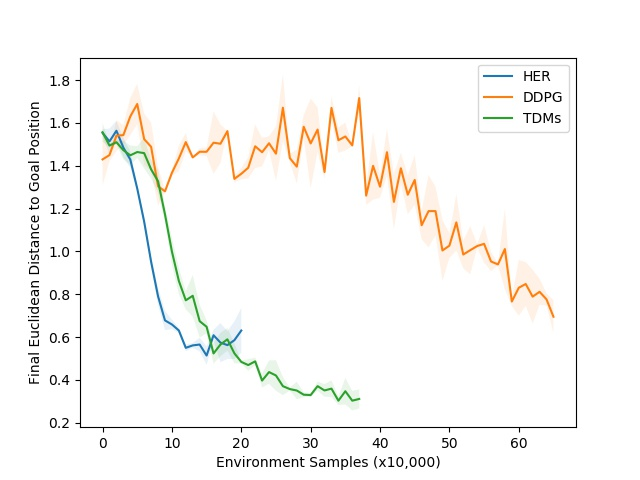
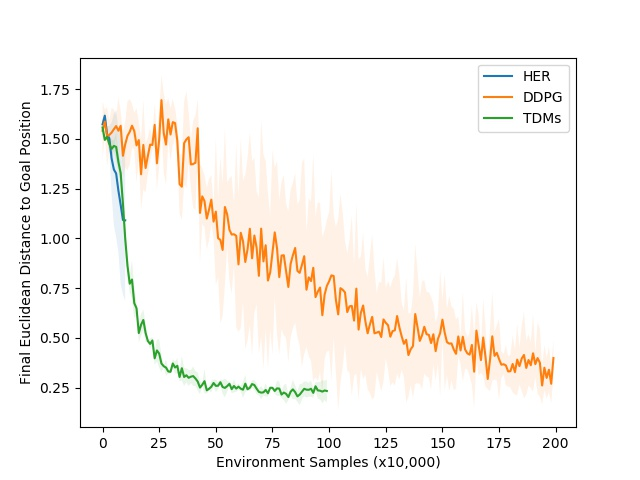
update plots

diff --git a/experiments/state_distance/iclr2018/ant_results.py b/experiments/state_distance/iclr2018/ant_results.py
@@ -9,18 +9,9 @@ def main():
     # ant_12_21_tdm_her_exp = Experiment(
     #     "/home/vitchyr/git/railrl/data/doodads3/12-21-tdm-her-sac-ant-sweep/"
     # )
-    ant_12_20_exp = Experiment(
-        "/home/vitchyr/git/railrl/data/doodads3/12-20-tdm-ant/"
-    )
-    ant_12_19_exp = Experiment(
-        "/home/vitchyr/git/railrl/data/doodads3/12-19-tdm-ant/"
-    )
-    ant_her_final_exp = Experiment(
-        "/home/vitchyr/git/railrl/data/doodads3/12-23-her-andrychowicz-ant-rebutal/"
-    )
-    ant_tdm_exp = Experiment(
-        "/home/vitchyr/git/railrl/data/doodads3/12-24-ddpg-nupo-sweep-ant/"
-    )
+    # ant_12_20_exp = Experiment(
+    #     "/home/vitchyr/git/railrl/data/doodads3/12-20-tdm-ant/"
+    # )
     # sac_her_andrychowicz_trials = ant_12_21_her_exp.get_trials({
     #     'sac_tdm_kwargs.tdm_kwargs.finite_horizon': False,
     #     'sac_tdm_kwargs.tdm_kwargs.reward_type': 'sparse',
@@ -57,19 +48,27 @@ def main():
     #     'ddpg_tdm_kwargs.base_kwargs.discount': 0.95,
     # })
 
+    ant_ddpg_exp = Experiment(
+        "/home/vitchyr/git/railrl/data/doodads3/12-23-ddpg-nupo-sweep-ant/"
+    )
+    ant_her_final_exp = Experiment(
+        "/home/vitchyr/git/railrl/data/doodads3/12-23-her-andrychowicz-ant-rebutal/"
+    )
+    ant_tdm_exp = Experiment(
+        "/home/vitchyr/git/railrl/data/doodads3/12-24-ddpg-nupo-sweep-ant/"
+    )
 
-    ddpg_trials = ant_12_19_exp.get_trials({
-        'algorithm': 'DDPG',
-        'algo_params.reward_scale': 10,
+    ddpg_trials = ant_ddpg_exp.get_trials({
+        'exp_id': '19',
     })
     ddpg_her_andrychowicz_trials = ant_her_final_exp.get_trials({
-        'exp_id': '11',
+        'exp_id': '20',
     })
     ddpg_tdm_trials = ant_tdm_exp.get_trials({
         'exp_id': '12',
     })
 
-    MAX_ITERS = 100
+    MAX_ITERS = 200
 
     plt.figure()
     for trials, name, key in [

diff --git a/experiments/state_distance/iclr2018/pusher_results.py b/experiments/state_distance/iclr2018/pusher_results.py
@@ -2,15 +2,14 @@ from railrl.misc.data_processing import Experiment
 import matplotlib.pyplot as plt
 import numpy as np
 
+from railrl.misc.visualization_util import sliding_mean
+
 her_exp = Experiment(
     "/home/vitchyr/git/railrl/data/doodads3/12-22-her-andrychowicz-try-hard-2/"
 )
 her_andry_trials = her_exp.get_trials({
-    'env_class.$class': "railrl.envs.multitask.pusher2d.CylinderXYPusher2DEnv",
-    'ddpg_tdm_kwargs.ddpg_kwargs.tau': 0.05,
-    'ddpg_tdm_kwargs.ddpg_kwargs.policy_pre_activation_weight': 0.0,
-    'ddpg_tdm_kwargs.base_kwargs.reward_scale': 100,
-    'ddpg_tdm_kwargs.base_kwargs.num_updates_per_env_step': 10,
+    'env_class.$class': 'railrl.envs.multitask.pusher2d.CylinderXYPusher2DEnv',
+    'exp_id': '22',
 })
 
 ddpg_path = "/mnt/data-backup-12-02-2017/doodads3/10-25-ddpg-pusher-again-baseline-with-reward-bonus/"
@@ -57,6 +56,8 @@ for trials, name, key in [
         for values in all_values
     ])
     costs = costs[:, :min(costs.shape[1], MAX_ITERS)]
+    if name == 'HER':
+        costs = sliding_mean(costs, 20)
     mean = np.mean(costs, axis=0)
     std = np.std(costs, axis=0)
     epochs = np.arange(0, len(costs[0]))

diff --git a/railrl/misc/visualization_util.py b/railrl/misc/visualization_util.py
@@ -119,3 +119,24 @@ def save_image(fig=None, fname=None):
     img = scipy.misc.imread(fname)
     fname.close()
     return img
+
+
+def sliding_mean(data_array, window=5):
+    """
+    Smooth data with a sliding mean
+    :param data_array:
+    :param window:
+    :return:
+    """
+    data_array = np.array(data_array)
+    new_list = []
+    for i in range(len(data_array)):
+        indices = list(range(max(i - window + 1, 0),
+                             min(i + window + 1, len(data_array))))
+        avg = 0
+        for j in indices:
+            avg += data_array[j]
+        avg /= float(len(indices))
+        new_list.append(avg)
+
+    return np.array(new_list)

diff --git a/experiments/state_distance/iclr2018/reacher_results.py b/experiments/state_distance/iclr2018/reacher_results.py
@@ -11,6 +11,7 @@ her_andry_trials = her_exp.get_trials({
         "railrl.envs.multitask.reacher_7dof.Reacher7DofXyzGoalState",
     'ddpg_tdm_kwargs.base_kwargs.reward_scale': 100,
     'ddpg_tdm_kwargs.base_kwargs.num_updates_per_env_step': 1,
+    'ddpg_tdm_kwargs.ddpg_kwargs.tau': 0.05,
 })
 
 ddpg_path = "/mnt/data-backup-12-02-2017/doodads3/10-25-ddpg" \
@@ -41,7 +42,7 @@ mb_exp = Experiment(mb_path)
 ddpg_trials = ddpg_exp.get_trials(ddpg_criteria)
 mb_trials = mb_exp.get_trials(mb_criteria)
 
-MAX_ITERS = 100
+MAX_ITERS = 1000
 
 base_key = 'Final_Euclidean_distance_to_goal_Mean'
 plt.figure()
